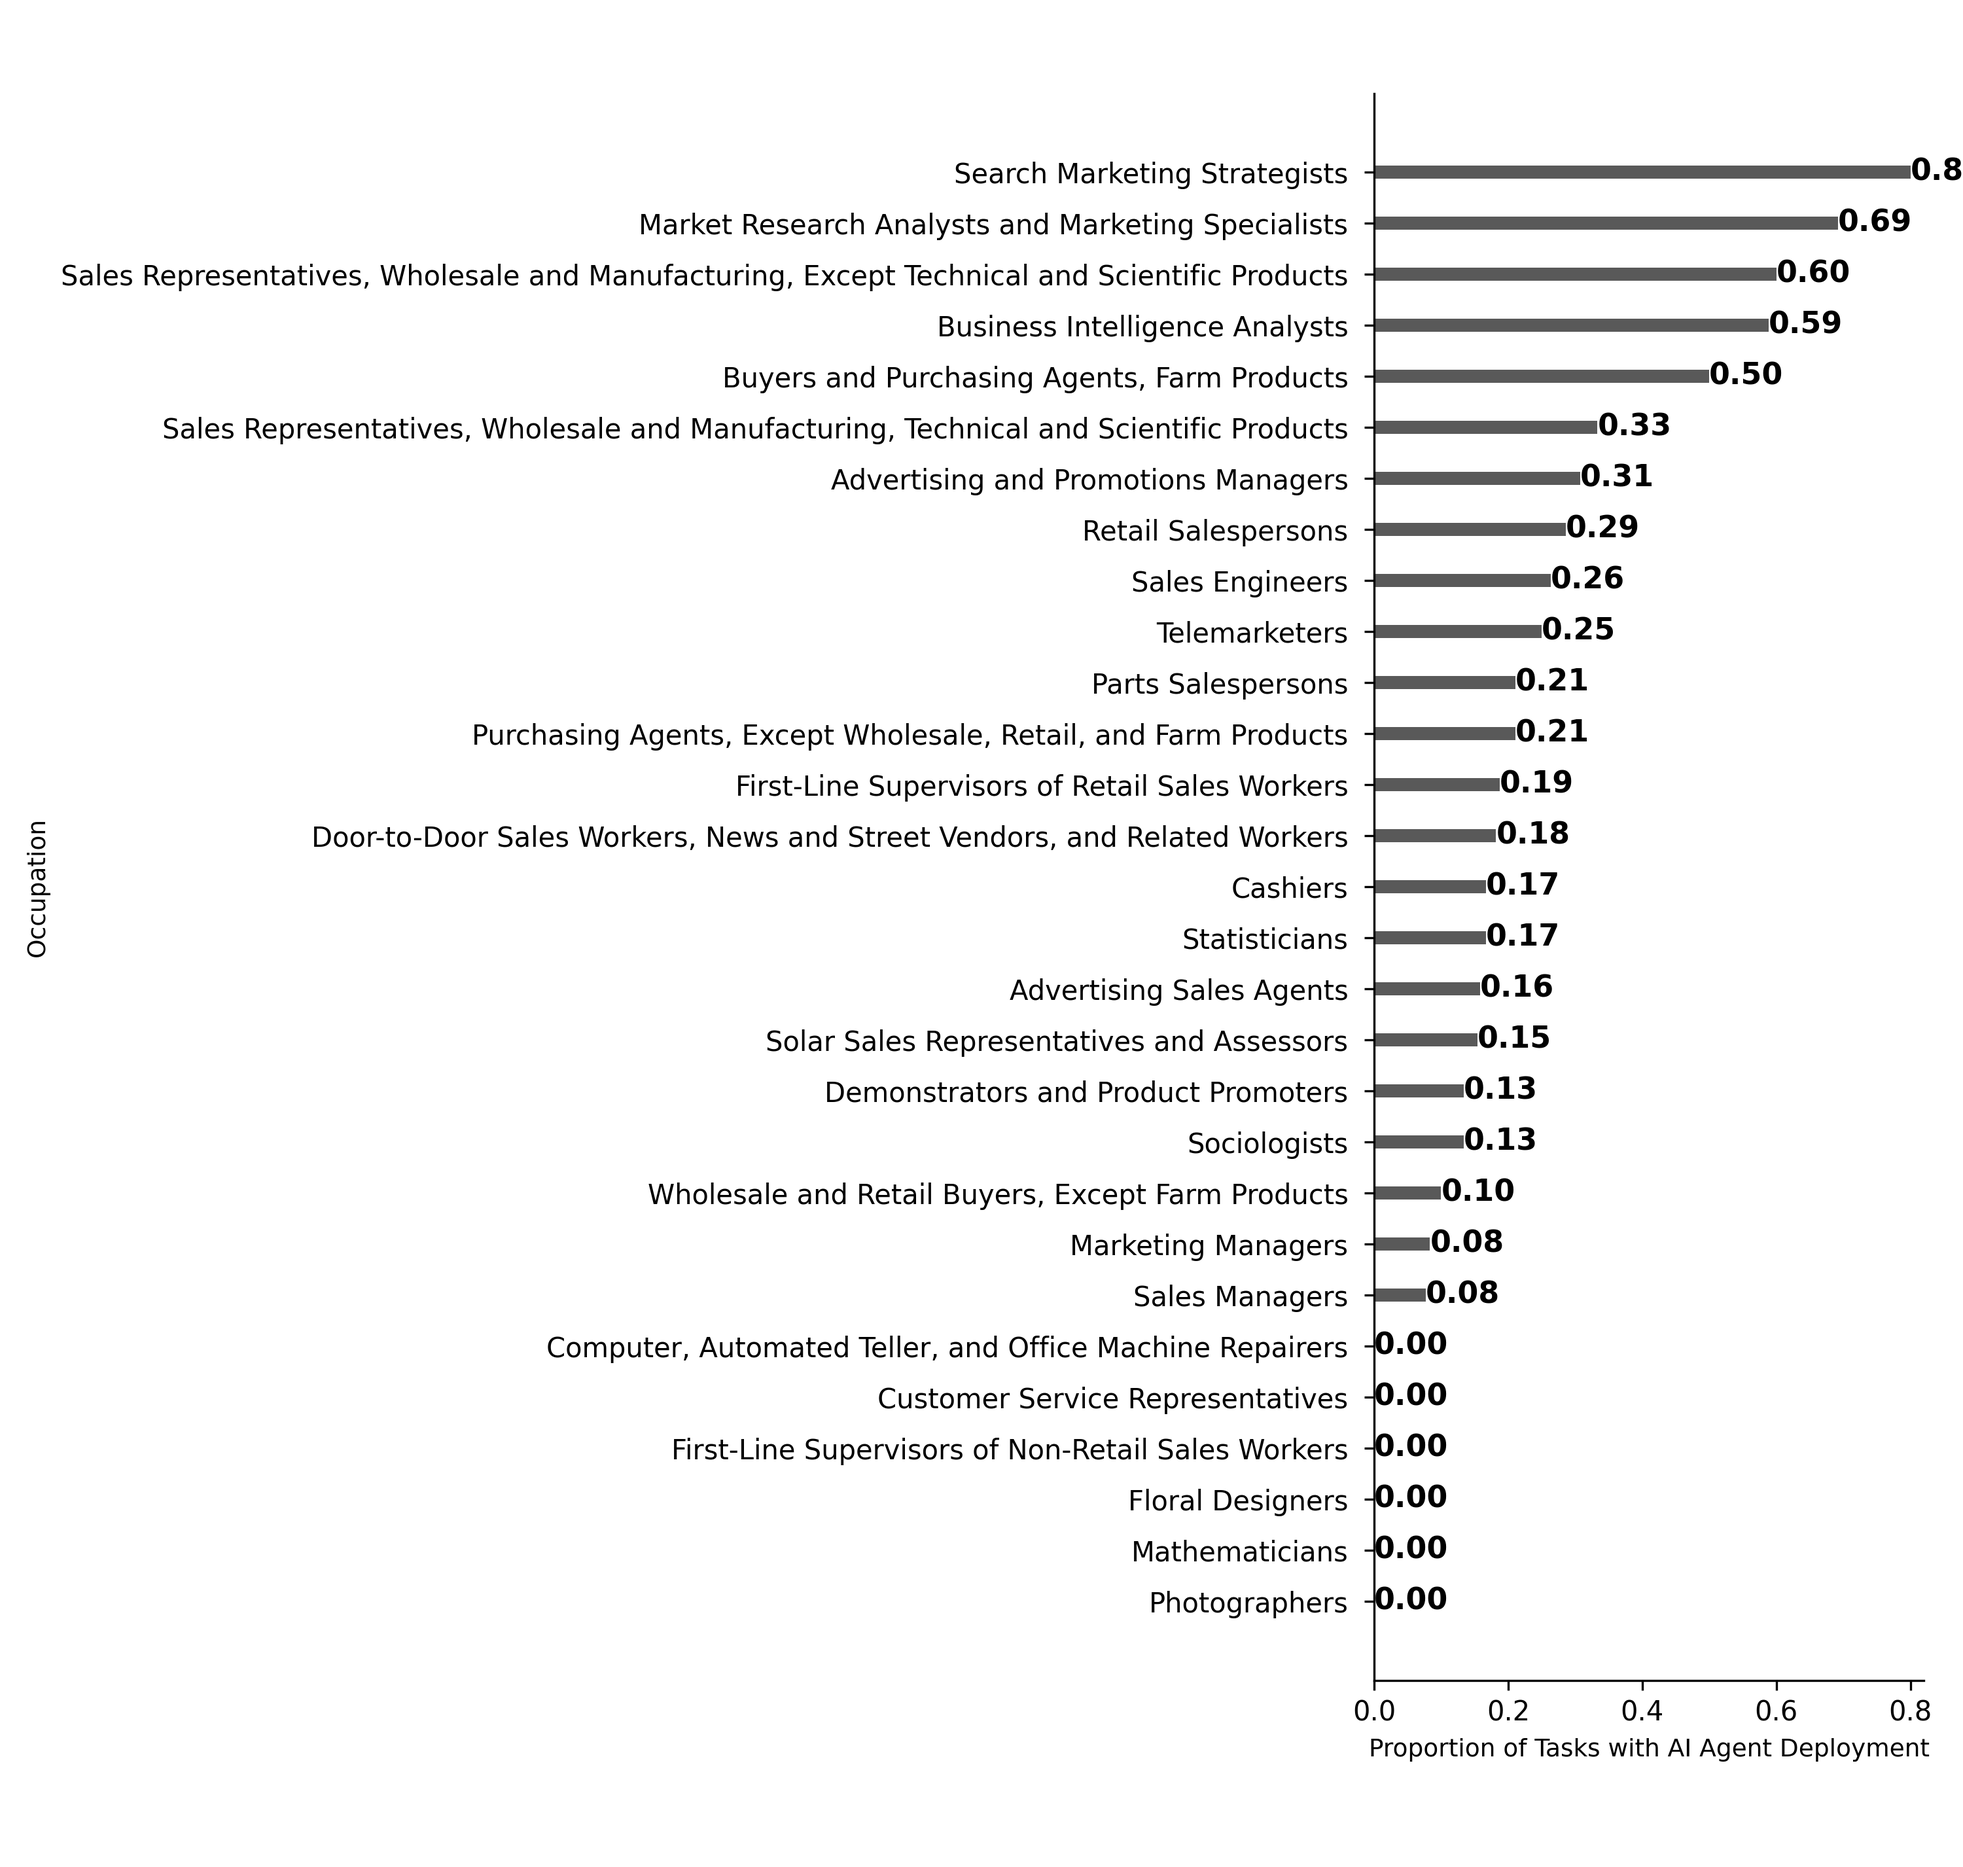
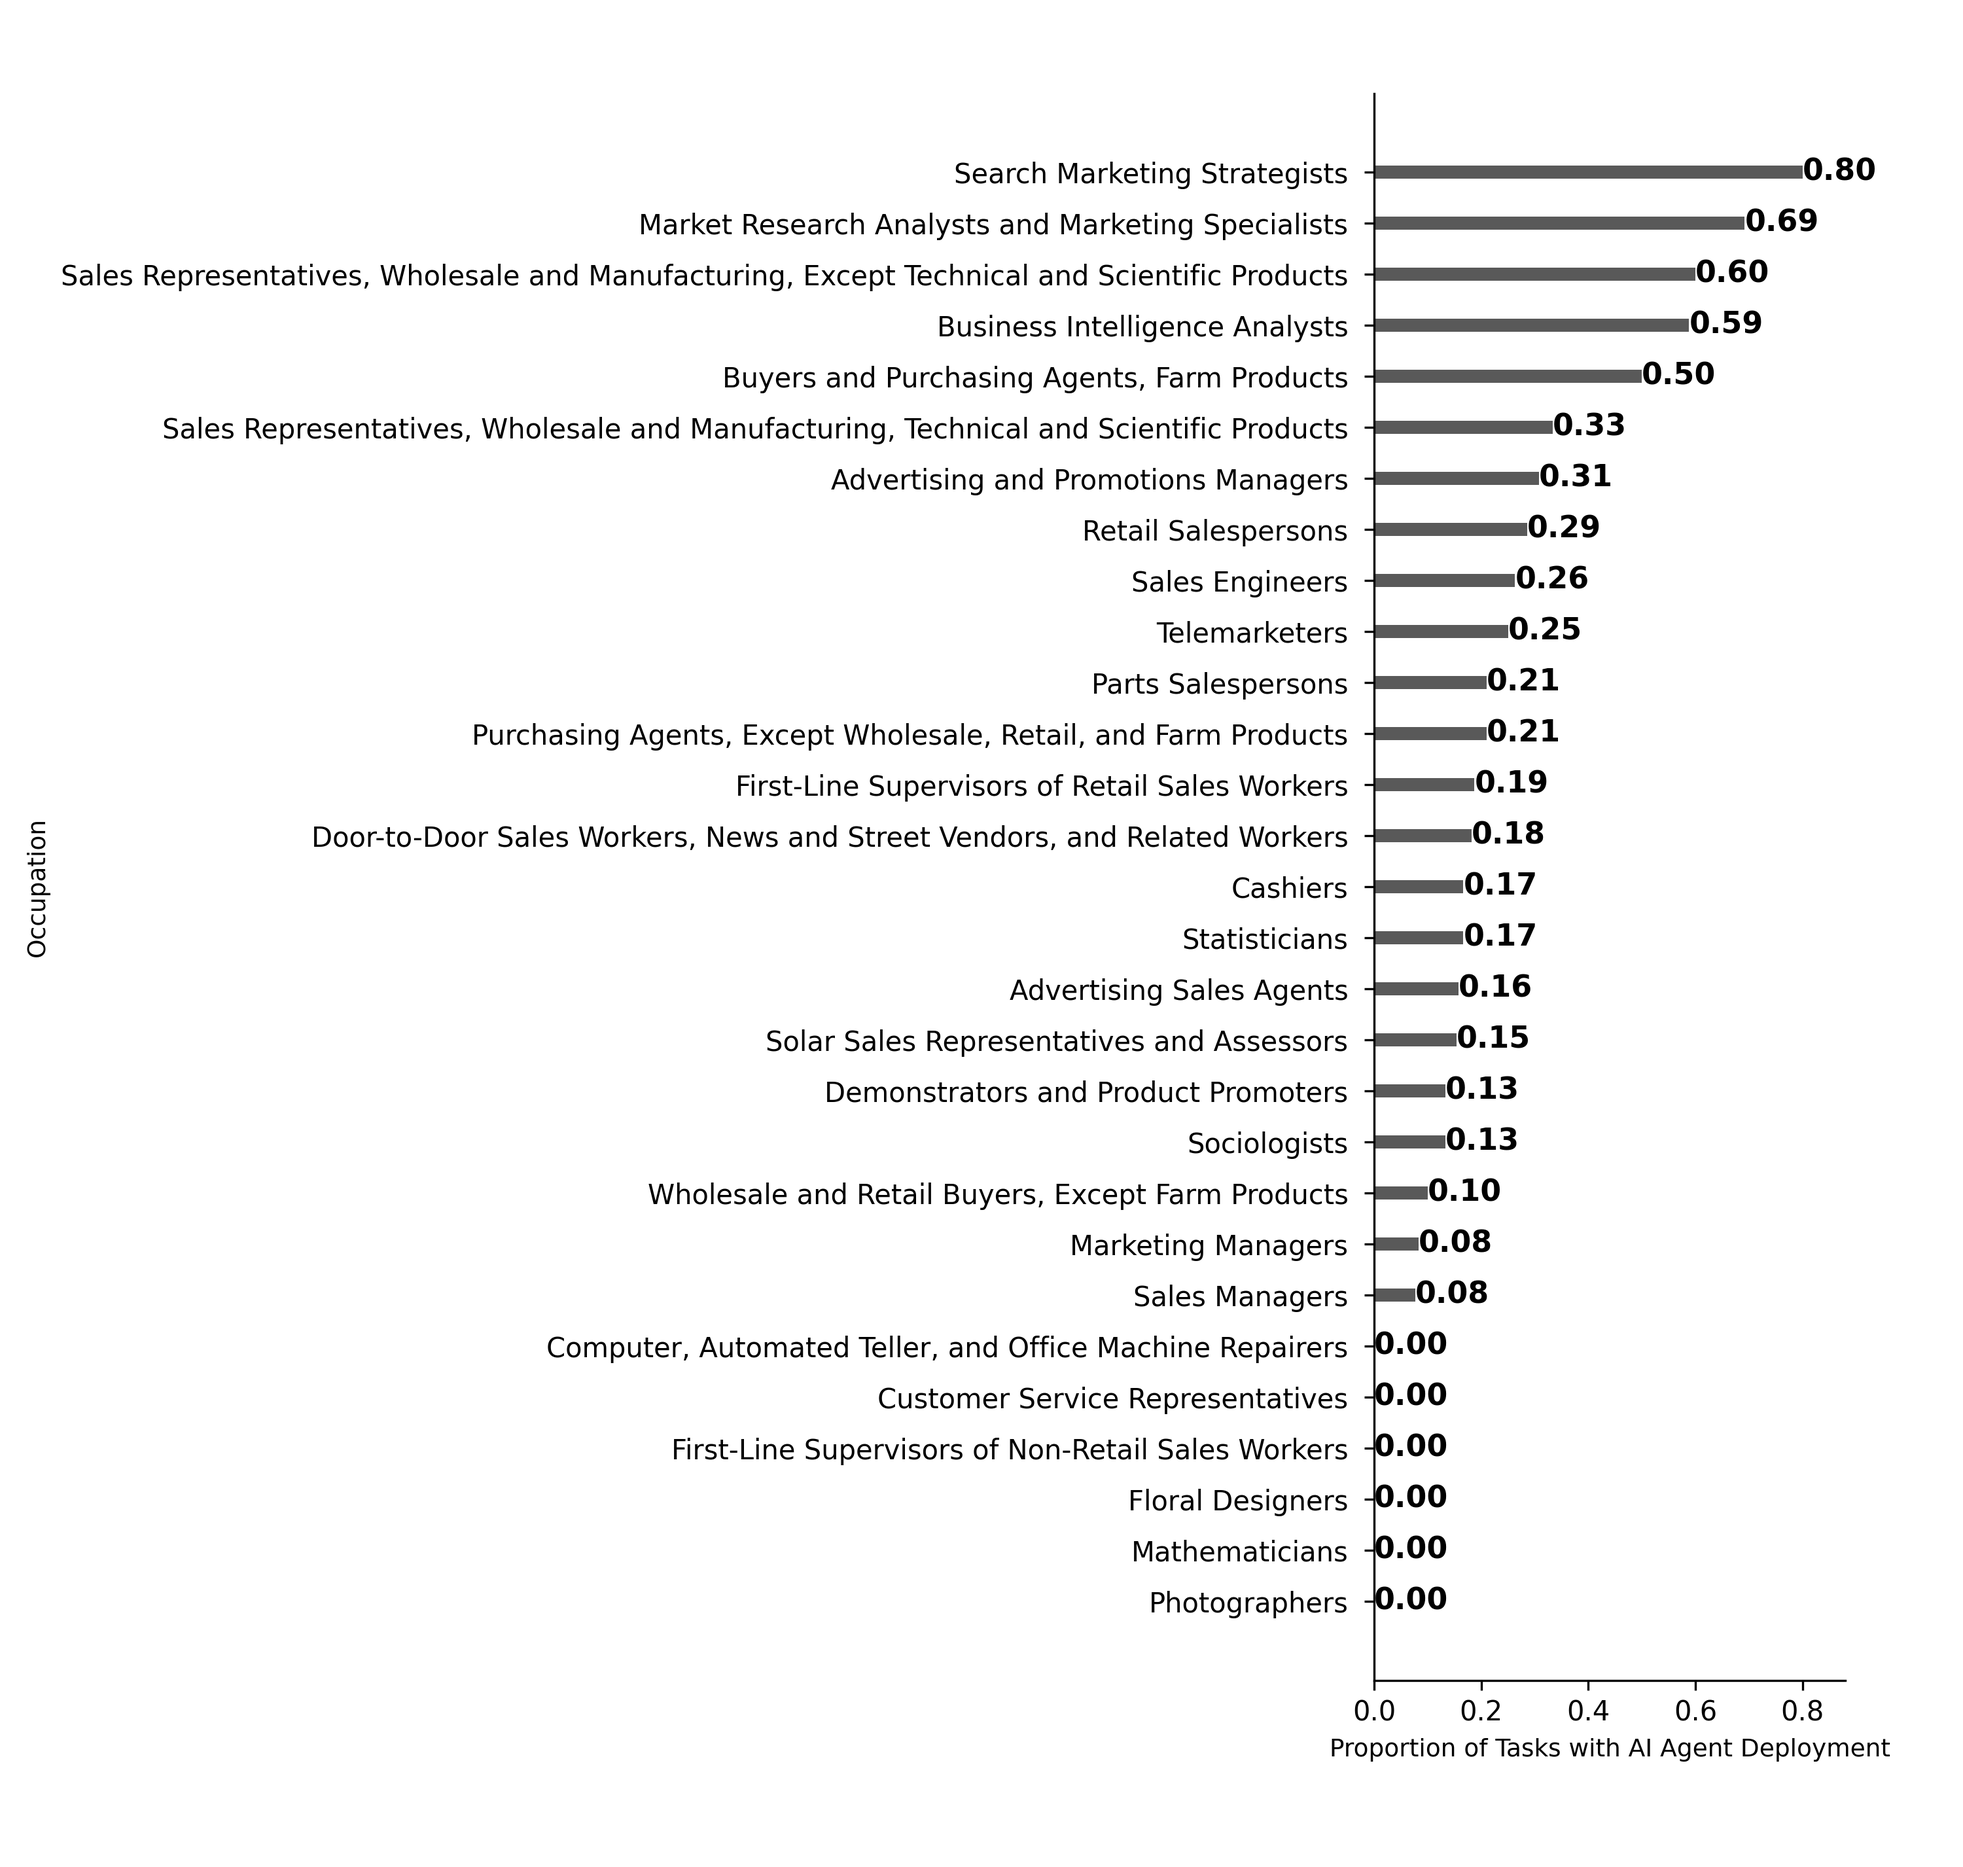
Widen the right margin on the occupation figure
The value labels are drawn at the bar ends in data coordinates, so the longest
bar's label extended past the axis and was clipped by the figure edge. Adds
headroom to the x limit and pulls the right margin in.

diff --git a/src/make_figures.py b/src/make_figures.py
@@ -68,7 +68,9 @@ def figure_2_occupation():
     ax.set_yticklabels(labels, fontsize=10)
     ax.tick_params(axis="y", pad=6)
 
-    ax.set_xlim(0, float(vals.max()) + 0.02)
+    # Headroom past the longest bar for its value label, which is drawn at the
+    # bar end in data coordinates and so extends beyond it.
+    ax.set_xlim(0, float(vals.max()) + 0.08)
     ax.set_xlabel("Proportion of Tasks with AI Agent Deployment", fontsize=9)
     ax.set_ylabel("Occupation", fontsize=9)
     ax.spines[["top", "right"]].set_visible(False)
@@ -85,8 +87,9 @@ def figure_2_occupation():
             fontweight="bold",
         )
 
-    # 70% of the width is given to the occupation labels, which are long.
-    fig.subplots_adjust(left=0.70, right=0.98, top=0.95, bottom=0.10)
+    # 70% of the width is given to the occupation labels, which are long. The
+    # right margin leaves room for the value labels at the bar ends.
+    fig.subplots_adjust(left=0.70, right=0.94, top=0.95, bottom=0.10)
     out = FIGURES / "occupation_task_replacement_openai.png"
     fig.savefig(out, dpi=300, transparent=True)
     plt.close(fig)
